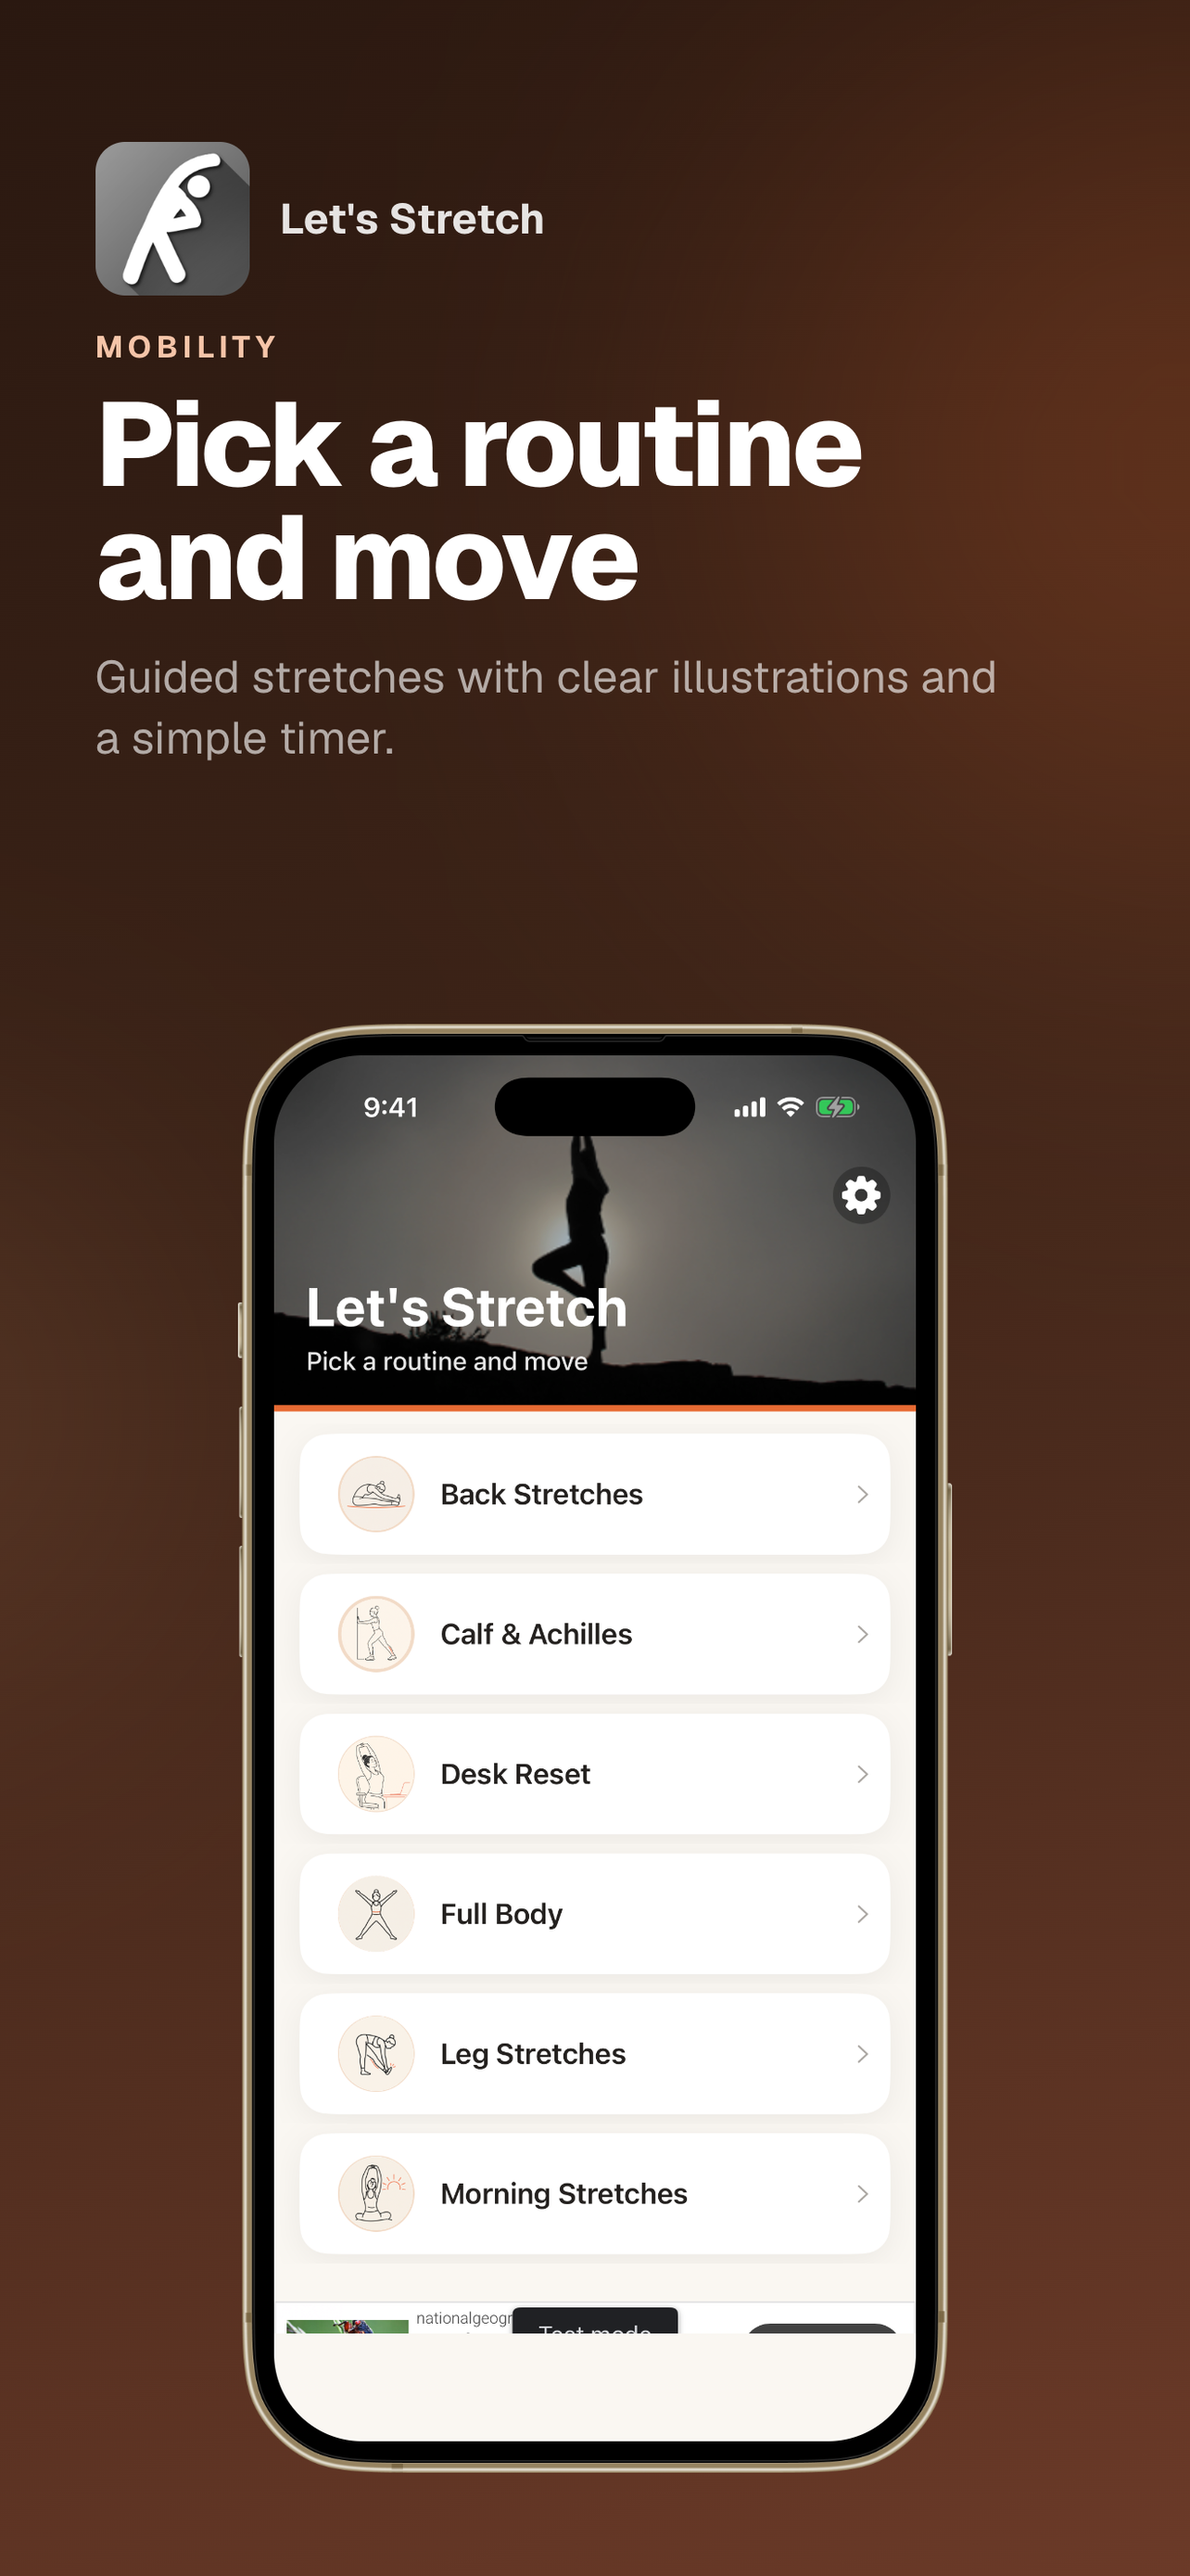
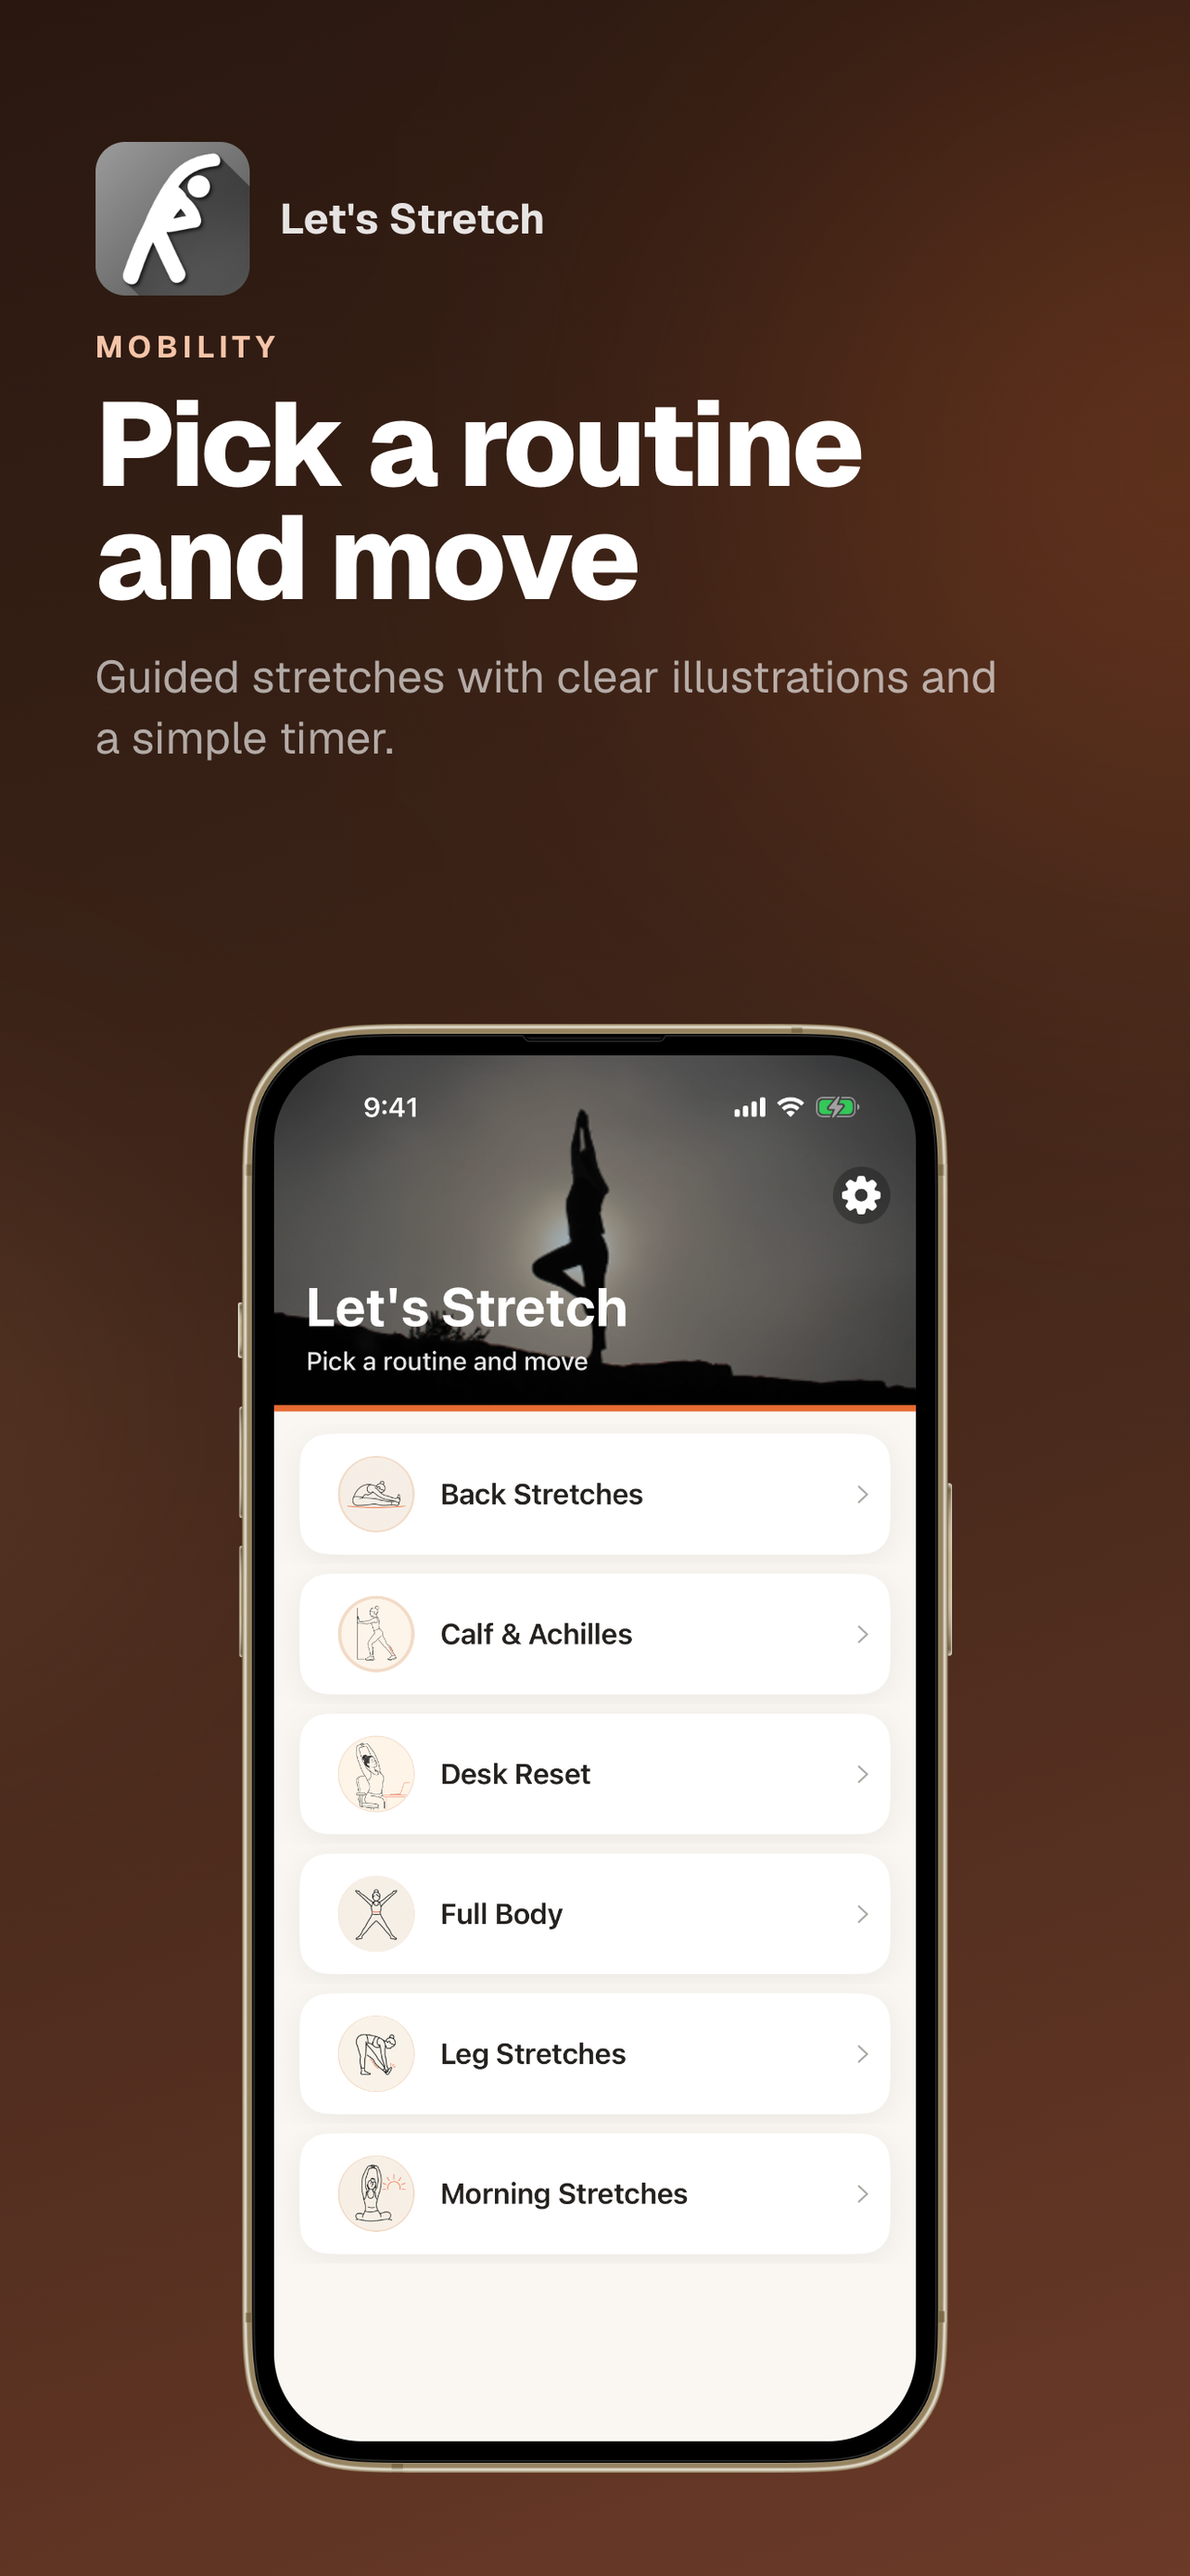
Disable ads during App Store screenshot captures

diff --git a/LetsStretch/AdBannerHelper.swift b/LetsStretch/AdBannerHelper.swift
@@ -11,6 +11,13 @@ enum AdUnits {
     static let stretchBanner = "ca-app-pub-8223005482588566/2963446943"
 }
 
+enum AdConfig {
+    /// Pass `-DisableAds` (UITest / screenshot captures) to hide banners.
+    static var adsDisabled: Bool {
+        ProcessInfo.processInfo.arguments.contains("-DisableAds")
+    }
+}
+
 extension UIViewController {
     /// Creates a programmatic BannerView inside a storyboard container.
     /// GoogleMobileAds.BannerView cannot be reliably instantiated from Interface Builder.
@@ -27,6 +34,19 @@ extension UIViewController {
 
         container.subviews.forEach { $0.removeFromSuperview() }
         container.backgroundColor = .clear
+
+        if AdConfig.adsDisabled {
+            container.isHidden = true
+            container.constraints
+                .filter { $0.firstAttribute == .height }
+                .forEach { $0.constant = 0 }
+            NSLayoutConstraint.activate([
+                container.heightAnchor.constraint(equalToConstant: 0)
+            ])
+            return nil
+        }
+
+        container.isHidden = false
 
         let width = max(container.bounds.width, view.bounds.width, 320)
         let adSize = currentOrientationAnchoredAdaptiveBanner(width: width)

diff --git a/LetsStretch/AppDelegate.swift b/LetsStretch/AppDelegate.swift
@@ -18,7 +18,9 @@ class AppDelegate: UIResponder, UIApplicationDelegate {
     func application(_ application: UIApplication, didFinishLaunchingWithOptions launchOptions: [UIApplication.LaunchOptionsKey: Any]?) -> Bool {
         AppTheme.applyGlobalAppearance()
         FirebaseApp.configure()
-        MobileAds.shared.start(completionHandler: nil)
+        if !AdConfig.adsDisabled {
+            MobileAds.shared.start(completionHandler: nil)
+        }
         AppStoreReviewPrompt.recordOpen()
         return true
     }

diff --git a/LetsStretchUITests/LetsStretchUITests.swift b/LetsStretchUITests/LetsStretchUITests.swift
@@ -13,6 +13,7 @@ class LetsStretchUITests: XCTestCase {
         super.setUp()
         continueAfterFailure = false
         try? FileManager.default.createDirectory(at: outDir, withIntermediateDirectories: true)
+        app.launchArguments += ["-DisableAds"]
         app.launch()
     }
 
